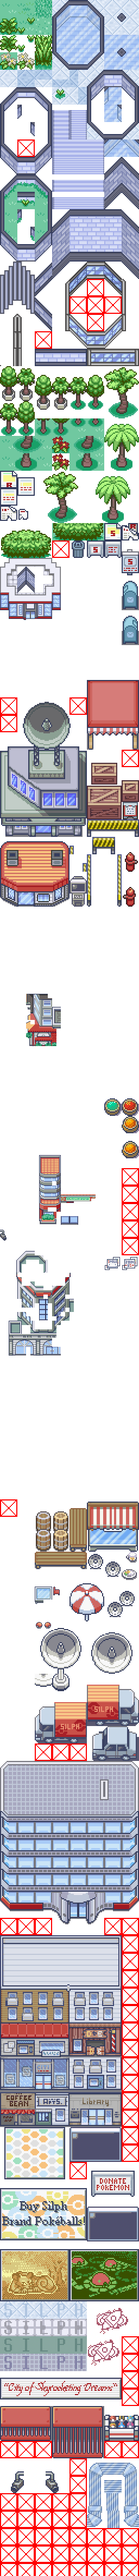
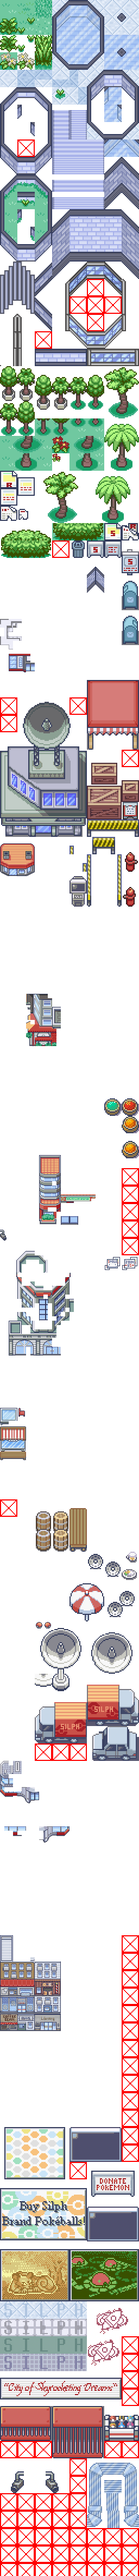
Added initial primary virtual city tileset for early mapbuilding

diff --git a/src/data/tilesets/graphics.h b/src/data/tilesets/graphics.h
@@ -3087,7 +3087,7 @@ const u16 gTilesetPalettes_WorldOneOutside[][16] =
 
 const u32 gTilesetTiles_WorldOneOutside[] = INCBIN_U32("data/tilesets/secondary/world_one_outside/tiles.4bpp.lz");
 
-const u16 gTilesetPalettes_VirtualCity[][16] =
+const u16 gTilesetPalettes_VirtualCityCommerce[][16] =
 {
     INCBIN_U16("data/tilesets/secondary/virtual_city_commerce/palettes/00.gbapal"),
     INCBIN_U16("data/tilesets/secondary/virtual_city_commerce/palettes/01.gbapal"),
@@ -3104,4 +3104,23 @@ const u16 gTilesetPalettes_VirtualCity[][16] =
     INCBIN_U16("data/tilesets/secondary/virtual_city_commerce/palettes/12.gbapal"),
 };
 
-const u32 gTilesetTiles_VirtualCity[] = INCBIN_U32("data/tilesets/secondary/virtual_city_commerce/tiles.4bpp.lz");
+const u32 gTilesetTiles_VirtualCityCommerce[] = INCBIN_U32("data/tilesets/secondary/virtual_city_commerce/tiles.4bpp.lz");
+
+const u16 gTilesetPalettes_VirtualCityCommercePrimary[][16] =
+{
+    INCBIN_U16("data/tilesets/primary/virtual_city_primary/palettes/00.gbapal"),
+    INCBIN_U16("data/tilesets/primary/virtual_city_primary/palettes/01.gbapal"),
+    INCBIN_U16("data/tilesets/primary/virtual_city_primary/palettes/02.gbapal"),
+    INCBIN_U16("data/tilesets/primary/virtual_city_primary/palettes/03.gbapal"),
+    INCBIN_U16("data/tilesets/primary/virtual_city_primary/palettes/04.gbapal"),
+    INCBIN_U16("data/tilesets/primary/virtual_city_primary/palettes/05.gbapal"),
+    INCBIN_U16("data/tilesets/primary/virtual_city_primary/palettes/06.gbapal"),
+    INCBIN_U16("data/tilesets/primary/virtual_city_primary/palettes/07.gbapal"),
+    INCBIN_U16("data/tilesets/primary/virtual_city_primary/palettes/08.gbapal"),
+    INCBIN_U16("data/tilesets/primary/virtual_city_primary/palettes/09.gbapal"),
+    INCBIN_U16("data/tilesets/primary/virtual_city_primary/palettes/10.gbapal"),
+    INCBIN_U16("data/tilesets/primary/virtual_city_primary/palettes/11.gbapal"),
+    INCBIN_U16("data/tilesets/primary/virtual_city_primary/palettes/12.gbapal"),
+};
+
+const u32 gTilesetTiles_VirtualCityCommercePrimary[] = INCBIN_U32("data/tilesets/primary/virtual_city_primary/tiles.4bpp.lz");

diff --git a/src/data/tilesets/metatiles.h b/src/data/tilesets/metatiles.h
@@ -415,5 +415,8 @@ const u16 gMetatileAttributes_WorldOne[] = INCBIN_U16("data/tilesets/primary/wor
 const u16 gMetatiles_WorldOneOutside[] = INCBIN_U16("data/tilesets/secondary/world_one_outside/metatiles.bin");
 const u16 gMetatileAttributes_WorldOneOutside[] = INCBIN_U16("data/tilesets/secondary/world_one_outside/metatile_attributes.bin");
 
-const u16 gMetatiles_VirtualCity[] = INCBIN_U16("data/tilesets/secondary/virtual_city_commerce/metatiles.bin");
-const u16 gMetatileAttributes_VirtualCity[] = INCBIN_U16("data/tilesets/secondary/virtual_city_commerce/metatile_attributes.bin");
+const u16 gMetatiles_VirtualCityCommerce[] = INCBIN_U16("data/tilesets/secondary/virtual_city_commerce/metatiles.bin");
+const u16 gMetatileAttributes_VirtualCityCommerce[] = INCBIN_U16("data/tilesets/secondary/virtual_city_commerce/metatile_attributes.bin");
+
+const u16 gMetatiles_VirtualCityCommercePrimary[] = INCBIN_U16("data/tilesets/primary/virtual_city_primary/metatiles.bin");
+const u16 gMetatileAttributes_VirtualCityCommercePrimary[] = INCBIN_U16("data/tilesets/primary/virtual_city_primary/metatile_attributes.bin");

diff --git a/src/data/tilesets/headers.h b/src/data/tilesets/headers.h
@@ -1564,13 +1564,24 @@ const struct Tileset gTileset_WorldOneOutside =
     .callback = NULL,
 };
 
-const struct Tileset gTileset_VirtualCity =
+const struct Tileset gTileset_VirtualCityCommerce =
 {
     .isCompressed = TRUE,
     .isSecondary = TRUE,
-    .tiles = gTilesetTiles_VirtualCity,
-    .palettes = gTilesetPalettes_VirtualCity,
-    .metatiles = gMetatiles_VirtualCity,
-    .metatileAttributes = gMetatileAttributes_VirtualCity,
+    .tiles = gTilesetTiles_VirtualCityCommerce,
+    .palettes = gTilesetPalettes_VirtualCityCommerce,
+    .metatiles = gMetatiles_VirtualCityCommerce,
+    .metatileAttributes = gMetatileAttributes_VirtualCityCommerce,
+    .callback = NULL,
+};
+
+const struct Tileset gTileset_VirtualCityCommercePrimary =
+{
+    .isCompressed = TRUE,
+    .isSecondary = FALSE,
+    .tiles = gTilesetTiles_VirtualCityCommercePrimary,
+    .palettes = gTilesetPalettes_VirtualCityCommercePrimary,
+    .metatiles = gMetatiles_VirtualCityCommercePrimary,
+    .metatileAttributes = gMetatileAttributes_VirtualCityCommercePrimary,
     .callback = NULL,
 };
